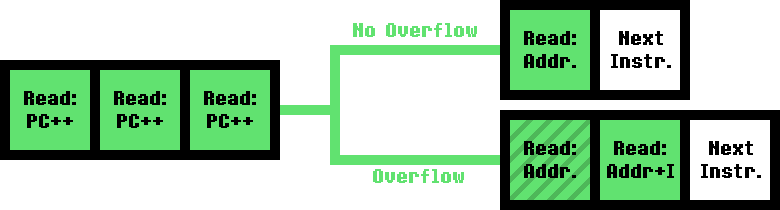
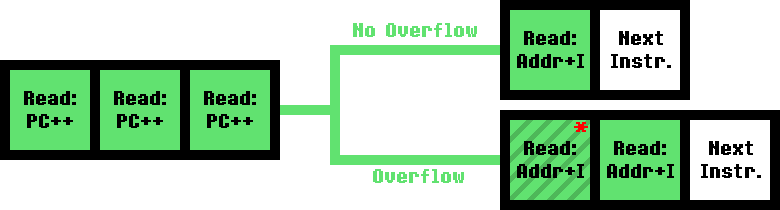
Added Indirect Indexed Addressing timing docs

Changed region(s): [[0.6462, 0.7714, 0.7692, 0.8571], [0.6462, 0.2571, 0.7692, 0.3429], [0.7385, 0.5714, 0.7692, 0.6286]]

diff --git a/cpu/README.md b/cpu/README.md
@@ -269,6 +269,8 @@ The Absolute Indexed Addressing variants of the instructions listed above each t
 
 (`I` in the diagram above represents the value of the index register used to offset the given address)
 
+(`*` in the diagram above marks a read from an incorrect address due to the upper address byte not being adjusted to an overflow from the lower byte)
+
 ### Absolute Indexed Addressing - Write Instructions
 
 This applies to the following instructions: `STA, STX, STY, SHA, SHX, SHY`
@@ -286,6 +288,8 @@ The Absolute Indexed Addressing variants of the instructions listed above each t
 ![timing_abs_indexed_write](./timing_abs_indexed_write.png)
 
 (`I` in the diagram above represents the value of the index register used to offset the given address)
+
+(`*` in the diagram above marks a read from a potentially incorrect address due to the upper address byte not being adjusted to an overflow from the lower byte)
 
 ### Absolute Indexed Addressing - Read-Modify-Write Instructions
 
@@ -307,6 +311,8 @@ The Absolute Indexed Addressing variants of the instructions listed above each t
 
 (`I` in the diagram above represents the value of the index register used to offset the given address)
 
+(`*` in the diagram above marks a read from a potentially incorrect address due to the upper address byte not being adjusted to an overflow from the lower byte)
+
 ### Indexed Indirect Addressing - Read Instructions
 
 This applies to the following instructions: `LDA, ORA, EOR, AND, ADC, CMP, SBC, LAX`
@@ -315,7 +321,7 @@ The Indexed Indirect Addressing variants of the instructions listed above each t
 
 * **Cycle 1:** The opcode is fetched from the address stored in PC and PC is incremented by 1.
 * **Cycle 2:** The byte after the opcode is fetched from the address stored in PC and PC is incremented by 1.
-* **Cycle 3:** The byte fetched in the previous cycle is used as the low address byte while the high byte is set to 0. A dummy read occurs on the resulting memory address. After the read occurs, the value of the index register is added to the address. The result is limited to 8 bits, so it is effectively ANDed with `$FF`.
+* **Cycle 3:** The byte fetched in the previous cycle is used as the low address byte while the high byte is set to 0. A dummy read occurs on the resulting memory address. After the read occurs, the value of the index register (X or Y, depending on the instruction) is added to the address. The result is limited to 8 bits, so it is effectively ANDed with `$FF`.
 * **Cycle 4:** The value at the address calculated in the previous cycle is read and buffered. The address is incremented, but still limited to 8 bits, so it is effectively ANDed with `$FF`.
 * **Cycle 5:** The value at the incremented address from the previous cycle is read and buffered as the upper byte of a new address, while the value read in the previous cycle represents the lower byte.
 * **Cycle 6:** The operation is performed on the target register using the value read from the memory address calculated in the previous cycle.
@@ -334,7 +340,7 @@ The Indexed Indirect Addressing variants of the instructions listed above each t
 
 * **Cycle 1:** The opcode is fetched from the address stored in PC and PC is incremented by 1.
 * **Cycle 2:** The byte after the opcode is fetched from the address stored in PC and PC is incremented by 1.
-* **Cycle 3:** The byte fetched in the previous cycle is used as the low address byte while the high byte is set to 0. A dummy read occurs on the resulting memory address. After the read occurs, the value of the index register is added to the address. The result is limited to 8 bits, so it is effectively ANDed with `$FF`.
+* **Cycle 3:** The byte fetched in the previous cycle is used as the low address byte while the high byte is set to 0. A dummy read occurs on the resulting memory address. After the read occurs, the value of the index register (X or Y, depending on the instruction) is added to the address. The result is limited to 8 bits, so it is effectively ANDed with `$FF`.
 * **Cycle 4:** The value at the address calculated in the previous cycle is read and buffered. The address is incremented, but still limited to 8 bits, so it is effectively ANDed with `$FF`.
 * **Cycle 5:** The value at the incremented address from the previous cycle is read and buffered as the upper byte of a new address, while the value read in the previous cycle represents the lower byte.
 * **Cycle 6:** The value is written to the memory address calculated in the previous cycle.
@@ -353,7 +359,7 @@ The Indexed Indirect Addressing variants of the instructions listed above each t
 
 * **Cycle 1:** The opcode is fetched from the address stored in PC and PC is incremented by 1.
 * **Cycle 2:** The byte after the opcode is fetched from the address stored in PC and PC is incremented by 1.
-* **Cycle 3:** The byte fetched in the previous cycle is used as the low address byte while the high byte is set to 0. A dummy read occurs on the resulting memory address. After the read occurs, the value of the index register is added to the address. The result is limited to 8 bits, so it is effectively ANDed with `$FF`.
+* **Cycle 3:** The byte fetched in the previous cycle is used as the low address byte while the high byte is set to 0. A dummy read occurs on the resulting memory address. After the read occurs, the value of the index register (X or Y, depending on the instruction) is added to the address. The result is limited to 8 bits, so it is effectively ANDed with `$FF`.
 * **Cycle 4:** The value at the address calculated in the previous cycle is read and buffered. The address is incremented, but still limited to 8 bits, so it is effectively ANDed with `$FF`.
 * **Cycle 5:** The value at the incremented address from the previous cycle is read and buffered as the upper byte of a new address, while the value read in the previous cycle represents the lower byte.
 * **Cycle 6:** The value at the memory address calculated in the previous cycle is read and buffered.
@@ -365,5 +371,70 @@ The Indexed Indirect Addressing variants of the instructions listed above each t
 ![timing_indexed_indirect_rmw](./timing_indexed_indirect_rmw.png)
 
 (`I` in the diagram above represents the value of the index register used to offset the given address)
+
+### Indirect Indexed Addressing - Read Instructions
+
+This applies to the following instructions: `LDA, EOR, AND, ORA, ADC, SBC, CMP`
+
+The Indirect Indexed Addressing variants of the instructions listed above each take either 5 or 6 CPU cycles:
+
+* **Cycle 1:** The opcode is fetched from the address stored in PC and PC is incremented by 1.
+* **Cycle 2:** The byte after the opcode is fetched from the address stored in PC and PC is incremented by 1.
+* **Cycle 3:** The value at the memory address fetched in the previous cycle (with the upper byte set to `$00`) is read and buffered and the address is incremented. The result is limited to 8 bits, so it is effectively ANDed with `$FF`.
+* **Cycle 4:** The value at the incremented address from the previous cycle is read and buffered. Afterwards, the value of the index register (X or Y, depending on the instruction) is added to the value read in the previous cycle. The result is limited to 8 bits, so it is effectively ANDed with `$FF`, however, it is kept track of whether the addition overflows.
+* **Cycle 5:** A value is read from the memory address resulting from the combination of the high byte fetched in the previous cycle and the low byte calculated in the previous cycle. If an overflow occurred during the addition in the previous cycle, the high byte is incremented by 1 after this dummy-read occurs. Otherwise the operation is performed using the read value and the instruction ends at this cycle.
+* **Cycle 6:** This cycle is only executed if the addition in cycle 4 caused an overflow. The low address byte calculated in cycle 4 is combined with the incremented high byte from the previous cycle and the value from the resulting memory address is read.
+
+**Timing Diagram:**
+
+![timing_indirect_indexed_read](./timing_indirect_indexed_read.png)
+
+(`I` in the diagram above represents the value of the index register used to offset the given address)
+
+(`*` in the diagram above marks a read from an incorrect address due to the upper address byte not being adjusted to an overflow from the lower byte)
+
+### Indirect Indexed Addressing - Write Instructions
+
+This applies to the following instructions: `STA, SHA`
+
+The Indirect Indexed Addressing variants of the instructions listed above each take 6 CPU cycles:
+
+* **Cycle 1:** The opcode is fetched from the address stored in PC and PC is incremented by 1.
+* **Cycle 2:** The byte after the opcode is fetched from the address stored in PC and PC is incremented by 1.
+* **Cycle 3:** The value at the memory address fetched in the previous cycle (with the upper byte set to `$00`) is read and buffered and the address is incremented. The result is limited to 8 bits, so it is effectively ANDed with `$FF`.
+* **Cycle 4:** The value at the incremented address from the previous cycle is read and buffered. Afterwards, the value of the index register (X or Y, depending on the instruction) is added to the value read in the previous cycle. The result is limited to 8 bits, so it is effectively ANDed with `$FF`, however, it is kept track of whether the addition overflows.
+* **Cycle 5:** A value is dummy-read from the memory address resulting from the combination of the high byte fetched in the previous cycle and the low byte calculated in the previous cycle. If an overflow occurred during the addition in the previous cycle, the high byte is incremented by 1 after this dummy-read occurs.
+* **Cycle 6:** The value is written to the memory address resulting from the combination of the high byte calculated in the previous cycle and the low byte calculated in cycle 4.
+
+**Timing Diagram:**
+
+![timing_indirect_indexed_write](./timing_indirect_indexed_write.png)
+
+(`I` in the diagram above represents the value of the index register used to offset the given address)
+
+(`*` in the diagram above marks a read from a potentially incorrect address due to the upper address byte not being adjusted to an overflow from the lower byte)
+
+### Indirect Indexed Addressing - Read-Modify-Write Instructions
+
+This applies to the following instructions: `SLO, SRE, RLA, RRA, ISB, DCP`
+
+The Indirect Indexed Addressing variants of the instructions listed above each take 8 CPU cycles:
+
+* **Cycle 1:** The opcode is fetched from the address stored in PC and PC is incremented by 1.
+* **Cycle 2:** The byte after the opcode is fetched from the address stored in PC and PC is incremented by 1.
+* **Cycle 3:** The value at the memory address fetched in the previous cycle (with the upper byte set to `$00`) is read and buffered and the address is incremented. The result is limited to 8 bits, so it is effectively ANDed with `$FF`.
+* **Cycle 4:** The value at the incremented address from the previous cycle is read and buffered. Afterwards, the value of the index register (X or Y, depending on the instruction) is added to the value read in the previous cycle. The result is limited to 8 bits, so it is effectively ANDed with `$FF`, however, it is kept track of whether the addition overflows.
+* **Cycle 5:** A value is dummy-read from the memory address resulting from the combination of the high byte fetched in the previous cycle and the low byte calculated in the previous cycle. If an overflow occurred during the addition in the previous cycle, the high byte is incremented by 1 after this dummy-read occurs.
+* **Cycle 6:** A value is read from the memory address resulting from the combination of the high byte calculated in the previous cycle and the low byte calculated in cycle 4 and buffered.
+* **Cycle 7:** The buffered value is dummy-written back to the same address as it was read from. Afterwards, the operation is performed on the buffered value and the result is buffered.
+* **Cycle 8:** The resulting value is written to the memory address used in the previous two cycles.
+
+**Timing Diagram:**
+
+![timing_indirect_indexed_rmw](./timing_indirect_indexed_rmw.png)
+
+(`I` in the diagram above represents the value of the index register used to offset the given address)
+
+(`*` in the diagram above marks a read from a potentially incorrect address due to the upper address byte not being adjusted to an overflow from the lower byte)
 
 **Note:** This section is currently incomplete. Further documentation will be added soon™.
